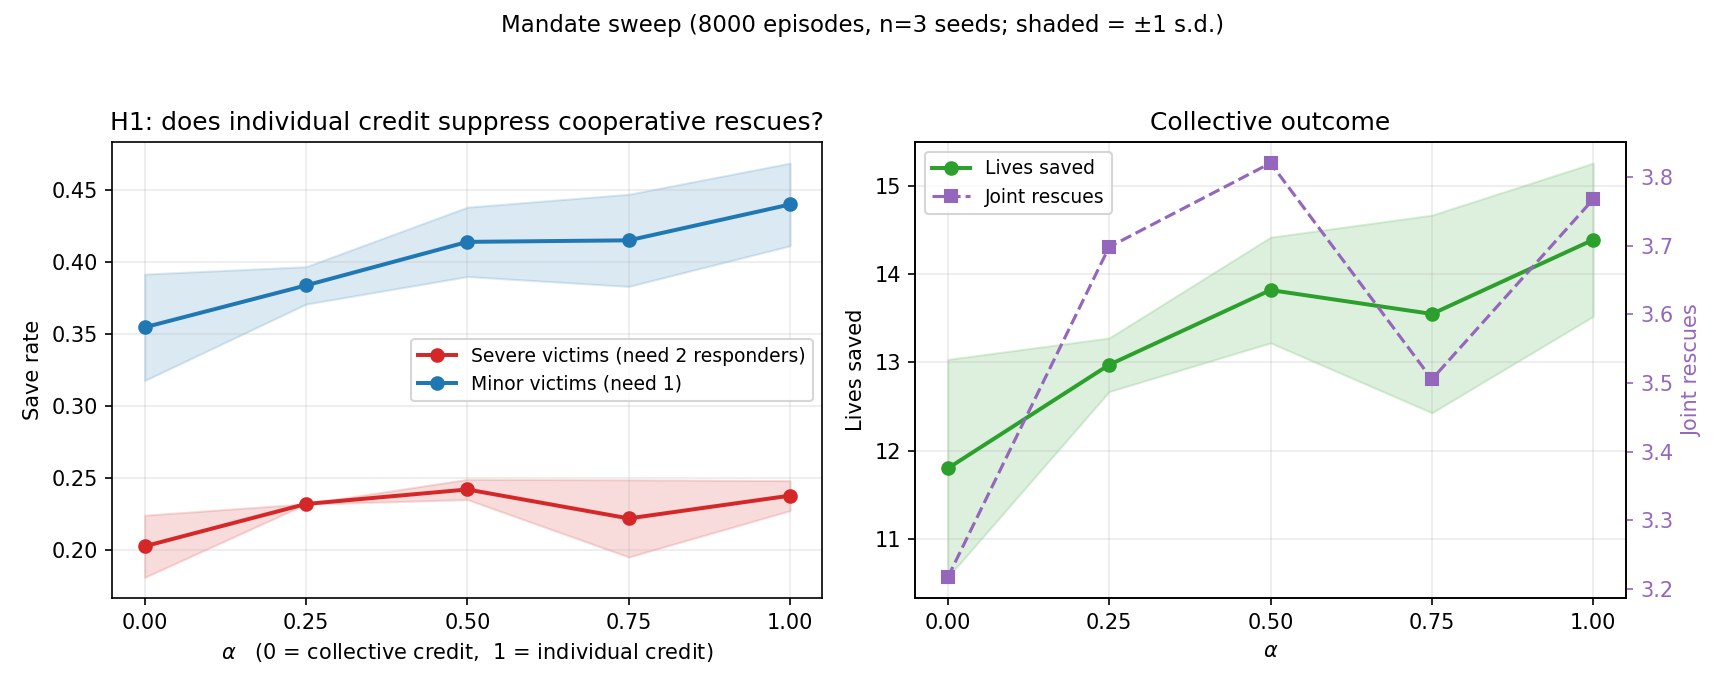
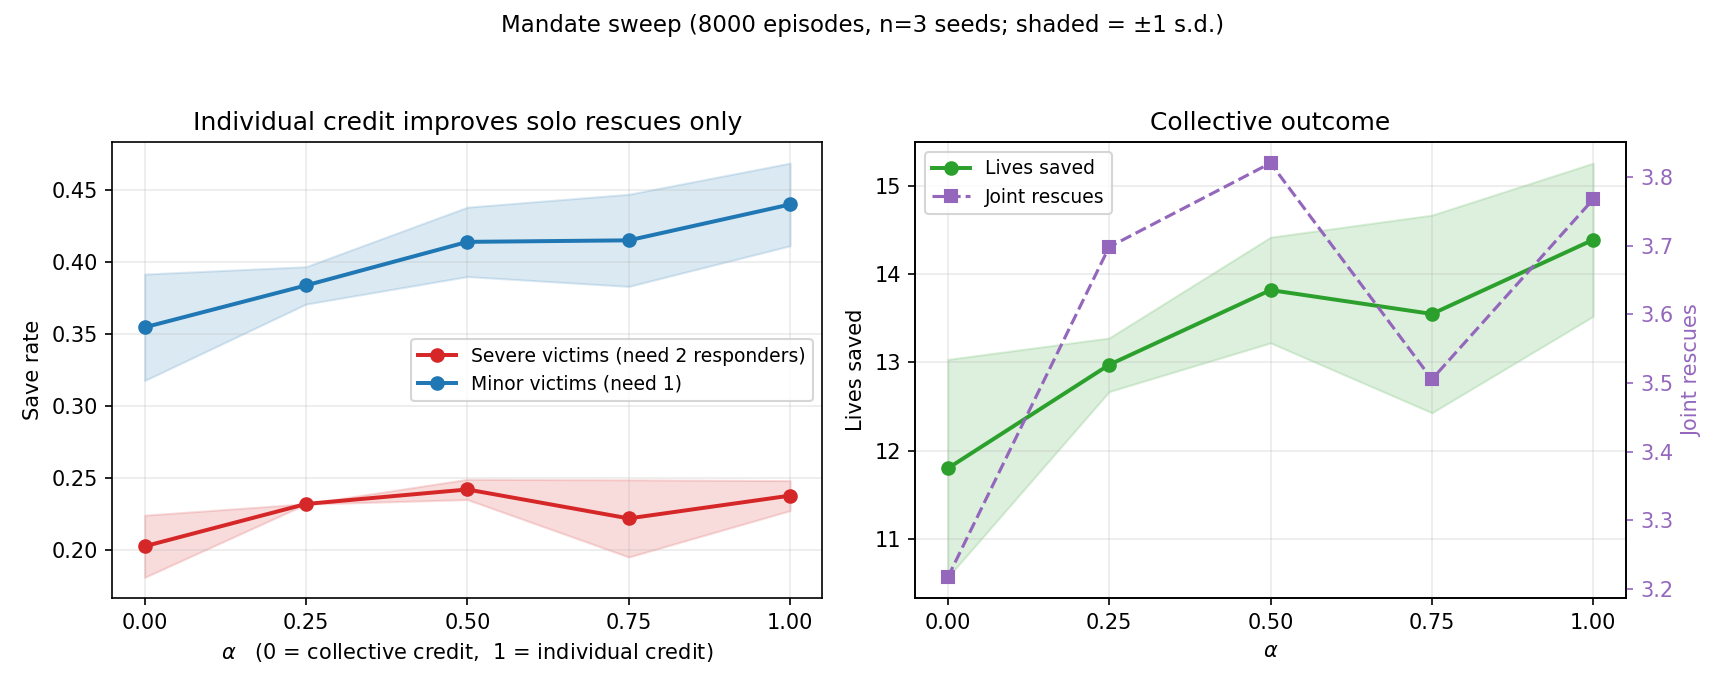
retitle figure to state the finding

Changed region(s): [[0.0614, 0.1522, 0.4916, 0.213]]

diff --git a/disaster-response/experiments/plot_mandate.py b/disaster-response/experiments/plot_mandate.py
@@ -65,7 +65,7 @@ def main():
         ax1.fill_between(alphas, m - s, m + s, color=colour, alpha=0.16)
     ax1.set_xlabel(r"$\alpha$   (0 = collective credit,  1 = individual credit)")
     ax1.set_ylabel("Save rate")
-    ax1.set_title("H1: does individual credit suppress cooperative rescues?")
+    ax1.set_title("Individual credit improves solo rescues only")
     ax1.set_xticks(alphas)
     ax1.grid(alpha=0.25)
     ax1.legend(fontsize=9)
